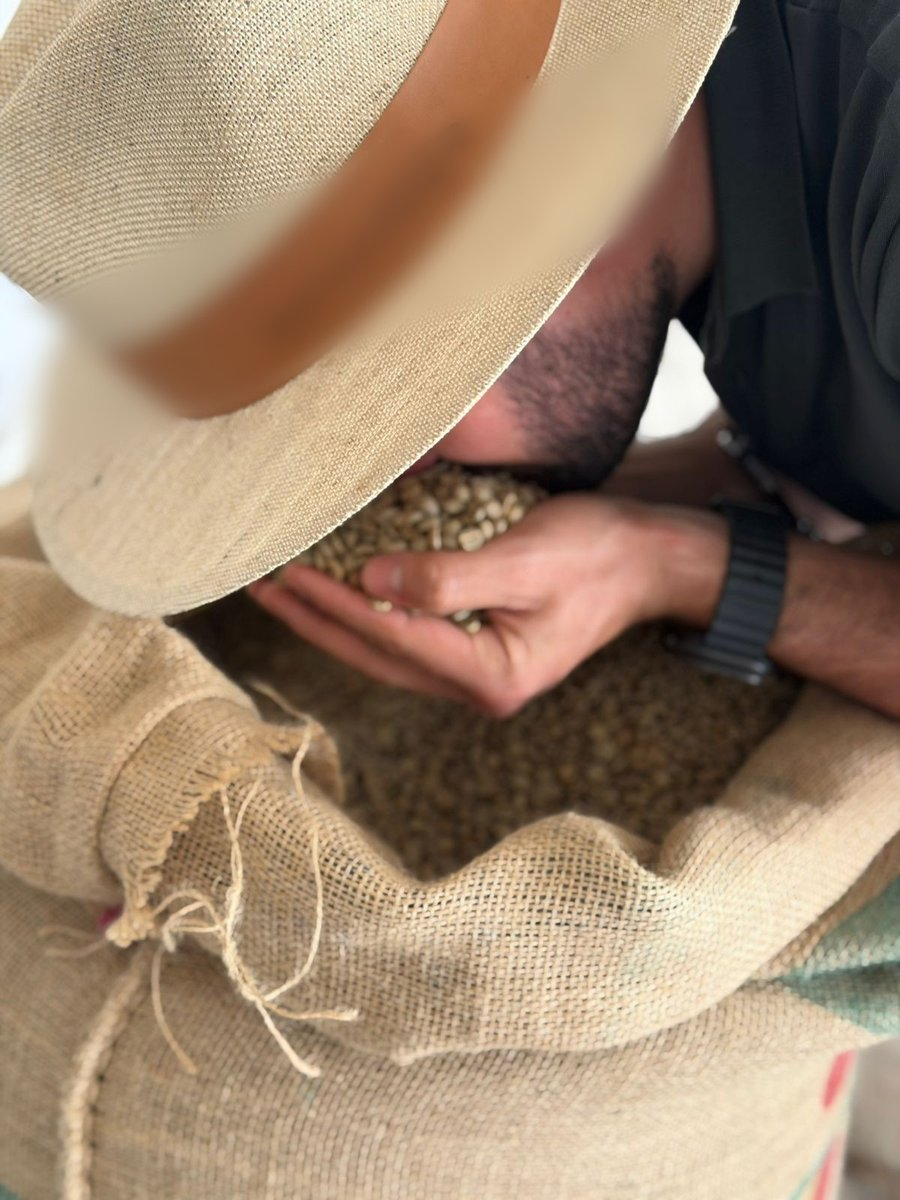
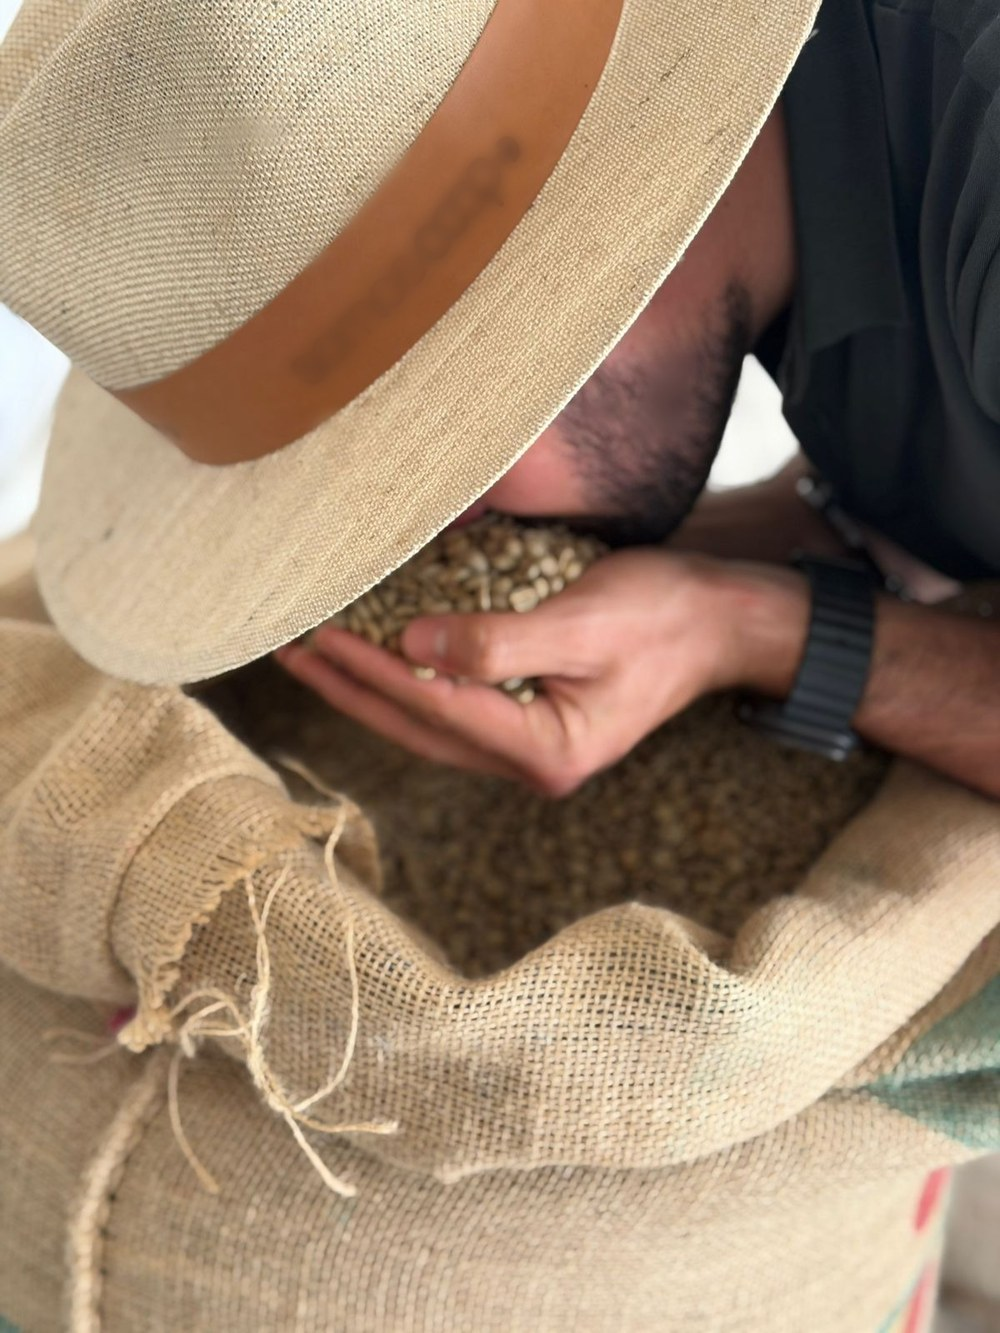
Ajusta foto "Nossa historia": menos corte, desfoque mais leve
- Aumenta a altura do container de 320px pra 480px, mostrando bem
  mais da foto (era cortada demais pelo object-fit:cover).
- Refaz o desfoque da marca no chapeu: agora usa deteccao por pixel
  pra cobrir só as letras (nao a tarja inteira), com raio bem menor -
  fica leve e natural em vez de um borrao grande.

diff --git a/css/style.css b/css/style.css
@@ -368,7 +368,7 @@ a { text-decoration: none; color: inherit; }
 .sobre-historia h2 { margin-bottom: 28px; font-size: 30px; }
 .sobre-historia > p { color: var(--text-soft); margin-bottom: 18px; line-height: 1.7; }
 .sobre-historia-imagem {
-  border-radius: var(--radius); overflow: hidden; height: 320px;
+  border-radius: var(--radius); overflow: hidden; height: 480px;
   margin-bottom: 28px; border: 1px solid #eee;
 }
 .sobre-historia-imagem img { width: 100%; height: 100%; object-fit: cover; display: block; }
